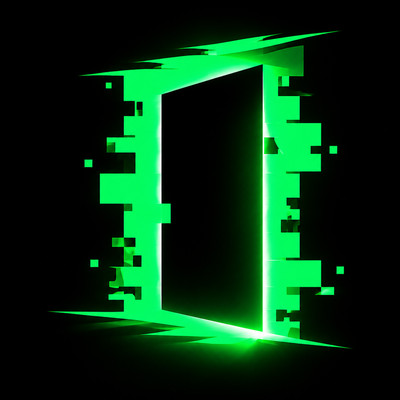
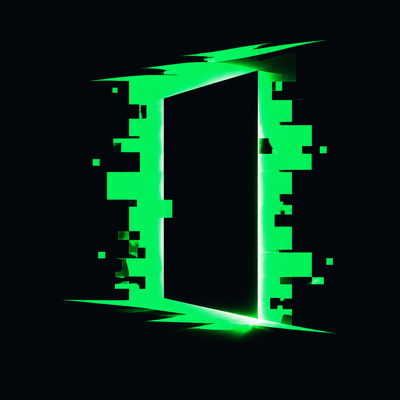
Transparent door assets; intro on monitor grid instead of flat black
Claude-Session: https://claude.ai/code/session_01MpyWXCnJy8oLD3krnbR8uy

Changed region(s): [[0.15, 0.06, 0.87, 0.93], [0.21, 0.63, 0.27, 0.69], [0.84, 0.66, 0.87, 0.69]]

diff --git a/index.html b/index.html
@@ -312,7 +312,7 @@ body::before{
 }
 
 /* ---- Door intro ---- */
-#door{position:fixed;inset:0;z-index:200;background:#000;display:flex;align-items:center;justify-content:center;cursor:pointer;transition:opacity .9s ease .25s}
+#door{position:fixed;inset:0;z-index:200;background:linear-gradient(var(--grid) 1px,transparent 1px),linear-gradient(90deg,var(--grid) 1px,transparent 1px),var(--bg);background-size:24px 24px,24px 24px,auto;display:flex;align-items:center;justify-content:center;cursor:pointer;transition:opacity .9s ease .25s}
 #door .dwrap{text-align:center;transition:transform 1.1s cubic-bezier(.6,0,.2,1),opacity .6s}
 #door img{width:min(64vmin,560px);height:auto;display:block;margin:0 auto;animation:breathe 3s ease-in-out infinite}
 @keyframes breathe{0%,100%{filter:brightness(.9) drop-shadow(0 0 16px rgba(74,227,138,.3))}50%{filter:brightness(1.1) drop-shadow(0 0 40px rgba(74,227,138,.6))}}
